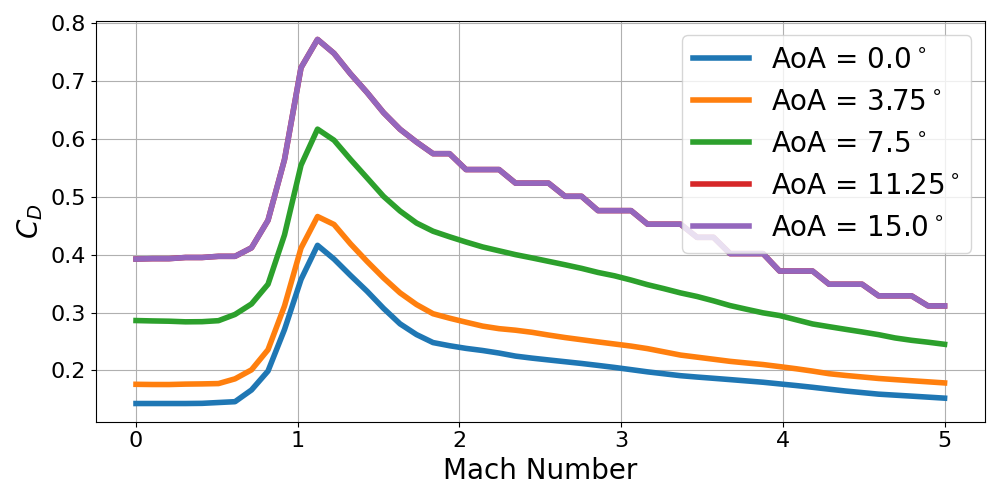
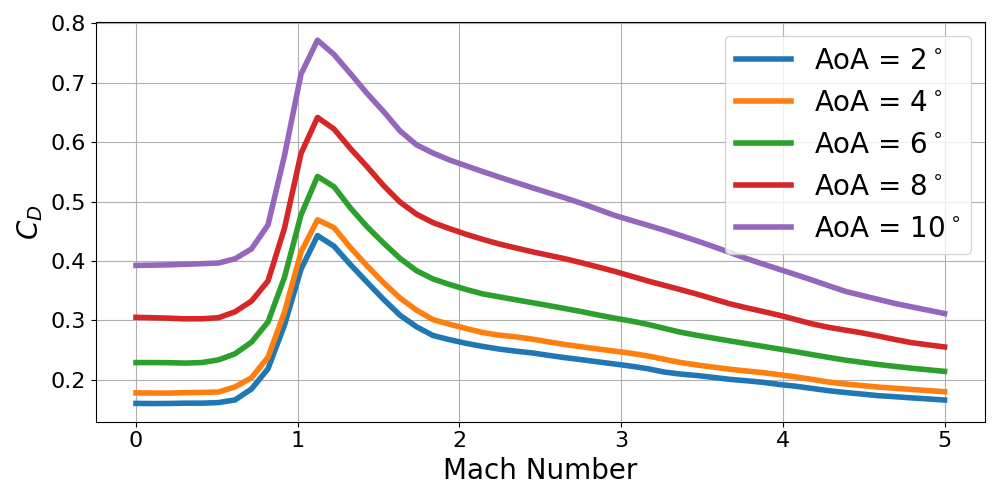
lift interpolator

diff --git a/src/envs/utils/aerodynamic_coefficients.py b/src/envs/utils/aerodynamic_coefficients.py
@@ -1,23 +1,10 @@
 import math
 import numpy as np
 import matplotlib.pyplot as plt
-import scipy.interpolate as interp
-import matplotlib.gridspec as gridspec
-from scipy.interpolate import RegularGridInterpolator
-
-def rocket_CL(alpha,                    # [rad]
-              M,                        # [-]
-              C_L_alpha = 11.459): # radians & -
-    return C_L_alpha * abs(alpha)
-
-import numpy as np
-import pandas as pd
-import matplotlib.pyplot as plt
 from scipy.interpolate import LinearNDInterpolator
 from scipy.interpolate import NearestNDInterpolator
 
-
-def load_drag_data(filename='V2_drag_coefficient.csv'):
+def load_coefficient_data(filename, coef_type="drag"):
     with open(filename, 'r') as f:
         lines = f.readlines()
     header = lines[0].strip().split(',')
@@ -25,7 +12,7 @@ def load_drag_data(filename='V2_drag_coefficient.csv'):
     for val in header:
         if 'deg' in val:
             aoa_values.append(float(val.split('_')[0]))
-    data = {angle: {'mach': [], 'cd': []} for angle in aoa_values}
+    data = {angle: {'mach': [], 'coef': []} for angle in aoa_values}
     for line in lines[2:]:
         if not line.strip():
             continue
@@ -35,38 +22,45 @@ def load_drag_data(filename='V2_drag_coefficient.csv'):
         col_idx = 0
         for i, angle in enumerate(aoa_values):
             mach_idx = col_idx
-            cd_idx = col_idx + 1
-            if cd_idx < len(values) and values[mach_idx].strip() and values[cd_idx].strip():
+            coef_idx = col_idx + 1
+            if coef_idx < len(values) and values[mach_idx].strip() and values[coef_idx].strip():
                 try:
                     mach_val = float(values[mach_idx])
-                    cd_val = float(values[cd_idx])
+                    coef_val = float(values[coef_idx])
                     data[angle]['mach'].append(mach_val)
-                    data[angle]['cd'].append(cd_val)
+                    data[angle]['coef'].append(coef_val)
                 except ValueError:
                     pass
             col_idx += 2
     
     all_mach = []
-    all_cd = []
+    all_coef = []
     all_aoa = []
+    
     for angle in aoa_values:
         mach_vals = data[angle]['mach']
-        cd_vals = data[angle]['cd']
+        coef_vals = data[angle]['coef']
         
         all_mach.extend(mach_vals)
-        all_cd.extend(cd_vals)
+        all_coef.extend(coef_vals)
         all_aoa.extend([angle] * len(mach_vals))
     
-    return np.array(all_mach), np.array(all_aoa), np.array(all_cd), np.array(aoa_values)
+    return np.array(all_mach), np.array(all_aoa), np.array(all_coef), np.array(aoa_values)
 
-def create_cd_interpolator(mach, aoa, cd):
+def load_drag_data(filename='V2_drag_coefficient.csv'):
+    return load_coefficient_data(filename, coef_type="drag")
+
+def load_lift_data(filename='V2_lift_coefficient.csv'):
+    return load_coefficient_data(filename, coef_type="lift")
+
+def create_coefficient_interpolator(mach, aoa, coef):
     points = np.column_stack((mach, aoa))
-    interp = LinearNDInterpolator(points, cd)
+    interp = LinearNDInterpolator(points, coef)
     
     # Create fallback interpolator for extrapolation using nearest neighbor
-    fallback = NearestNDInterpolator(points, cd)
+    fallback = NearestNDInterpolator(points, coef)
     
-    def interpolate_cd(mach_val, aoa_val):
+    def interpolate_coef(mach_val, aoa_val):
         pts = np.array([[mach_val, aoa_val]])
         result = interp(pts)
         
@@ -76,30 +70,63 @@ def create_cd_interpolator(mach, aoa, cd):
             
         return float(result[0])
     
-    return interpolate_cd
+    return interpolate_coef
 
+def create_cd_interpolator(mach, aoa, cd):
+    return create_coefficient_interpolator(mach, aoa, cd)
 
-def plot_cd_vs_mach_aoa(cd_interp_func, mach_range, aoa_values):
+def create_cl_interpolator(mach, aoa, cl):
+    return create_coefficient_interpolator(mach, aoa, cl)
+
+def plot_coefficient_vs_mach_aoa(coef_interp_func, mach_range, aoa_values, coef_type="CD"):
+    coef_labels = {
+        "CD": r"$C_D$",
+        "CL": r"$C_L$"
+    }
+    
     mach_grid = np.linspace(min(mach_range), max(mach_range), 50)
     plt.figure(figsize=(10, 5))
     for aoa in aoa_values:
-        cd_values = np.array([cd_interp_func(m, aoa) for m in mach_grid])
-        plt.plot(mach_grid, cd_values, label=rf'AoA = {aoa}$^\circ$', linewidth = 4)
-    plt.xlabel('Mach Number', fontsize = 20)
-    plt.ylabel(r'$C_D$', fontsize = 20)
+        coef_values = np.array([coef_interp_func(m, aoa) for m in mach_grid])
+        plt.plot(mach_grid, coef_values, label=rf'AoA = {math.degrees(aoa):.0f}$^\circ$', linewidth=4)
+    plt.xlabel('Mach Number', fontsize=20)
+    plt.ylabel(coef_labels.get(coef_type, coef_type), fontsize=20)
     plt.grid(True)
     plt.tick_params(axis='both', which='major', labelsize=16)
-    plt.legend(fontsize = 20)
+    plt.legend(fontsize=20)
     plt.tight_layout()
-    plt.savefig('results/Sizing/drag_coefficient.png')
+    
+    # Save with appropriate filename
+    if coef_type == "CD":
+        plt.savefig('results/Sizing/drag_coefficient.png')
+    elif coef_type == "CL":
+        plt.savefig('results/Sizing/lift_coefficient.png')
+    else:
+        plt.savefig(f'results/Sizing/{coef_type.lower()}_coefficient.png')
+
+def plot_cd_vs_mach_aoa(cd_interp_func, mach_range, aoa_values):
+    return plot_coefficient_vs_mach_aoa(cd_interp_func, mach_range, aoa_values, coef_type="CD")
+
+def plot_cl_vs_mach_aoa(cl_interp_func, mach_range, aoa_values):
+    return plot_coefficient_vs_mach_aoa(cl_interp_func, mach_range, aoa_values, coef_type="CL")
 
 def rocket_CD_compiler():
     mach, aoa, cd, aoa_values = load_drag_data()
     cd_interp = create_cd_interpolator(mach, aoa, cd)
     def fun(mach, aoa):
-        return cd_interp(mach, abs(aoa))
+        return cd_interp(mach, abs(math.degrees(aoa)))
+    return fun
+
+def rocket_CL_compiler():
+    mach, aoa, cl, aoa_values = load_lift_data()
+    cl_interp = create_cl_interpolator(mach, aoa, cl)
+    def fun(mach, aoa_radians): 
+        return cl_interp(mach, abs(math.degrees(aoa_radians)))
     return fun
 
 if __name__ == "__main__":
+    # Process drag coefficient
     cd_interpolator = rocket_CD_compiler()
-    plot_cd_vs_mach_aoa(cd_interpolator, np.linspace(0, 5, 100), np.linspace(0, 10, 5))
+    plot_cd_vs_mach_aoa(cd_interpolator, np.linspace(0, 5, 100), np.deg2rad(np.array([2,4,6,8,10])))
+    cl_interpolator = rocket_CL_compiler()
+    plot_cl_vs_mach_aoa(cl_interpolator, np.linspace(0, 5, 100), np.deg2rad(np.array([2,4,6,8,10])))

diff --git a/aero_temp.py b/aero_temp.py
@@ -1,11 +1,10 @@
+import math
 import numpy as np
-import pandas as pd
 import matplotlib.pyplot as plt
 from scipy.interpolate import LinearNDInterpolator
 from scipy.interpolate import NearestNDInterpolator
 
-
-def load_drag_data(filename='V2_drag_coefficient.csv'):
+def load_coefficient_data(filename, coef_type="drag"):
     with open(filename, 'r') as f:
         lines = f.readlines()
     header = lines[0].strip().split(',')
@@ -13,7 +12,7 @@ def load_drag_data(filename='V2_drag_coefficient.csv'):
     for val in header:
         if 'deg' in val:
             aoa_values.append(float(val.split('_')[0]))
-    data = {angle: {'mach': [], 'cd': []} for angle in aoa_values}
+    data = {angle: {'mach': [], 'coef': []} for angle in aoa_values}
     for line in lines[2:]:
         if not line.strip():
             continue
@@ -23,38 +22,45 @@ def load_drag_data(filename='V2_drag_coefficient.csv'):
         col_idx = 0
         for i, angle in enumerate(aoa_values):
             mach_idx = col_idx
-            cd_idx = col_idx + 1
-            if cd_idx < len(values) and values[mach_idx].strip() and values[cd_idx].strip():
+            coef_idx = col_idx + 1
+            if coef_idx < len(values) and values[mach_idx].strip() and values[coef_idx].strip():
                 try:
                     mach_val = float(values[mach_idx])
-                    cd_val = float(values[cd_idx])
+                    coef_val = float(values[coef_idx])
                     data[angle]['mach'].append(mach_val)
-                    data[angle]['cd'].append(cd_val)
+                    data[angle]['coef'].append(coef_val)
                 except ValueError:
                     pass
             col_idx += 2
     
     all_mach = []
-    all_cd = []
+    all_coef = []
     all_aoa = []
+    
     for angle in aoa_values:
         mach_vals = data[angle]['mach']
-        cd_vals = data[angle]['cd']
+        coef_vals = data[angle]['coef']
         
         all_mach.extend(mach_vals)
-        all_cd.extend(cd_vals)
+        all_coef.extend(coef_vals)
         all_aoa.extend([angle] * len(mach_vals))
     
-    return np.array(all_mach), np.array(all_aoa), np.array(all_cd), np.array(aoa_values)
+    return np.array(all_mach), np.array(all_aoa), np.array(all_coef), np.array(aoa_values)
 
-def create_cd_interpolator(mach, aoa, cd):
+def load_drag_data(filename='V2_drag_coefficient.csv'):
+    return load_coefficient_data(filename, coef_type="drag")
+
+def load_lift_data(filename='V2_lift_coefficient.csv'):
+    return load_coefficient_data(filename, coef_type="lift")
+
+def create_coefficient_interpolator(mach, aoa, coef):
     points = np.column_stack((mach, aoa))
-    interp = LinearNDInterpolator(points, cd)
+    interp = LinearNDInterpolator(points, coef)
     
     # Create fallback interpolator for extrapolation using nearest neighbor
-    fallback = NearestNDInterpolator(points, cd)
+    fallback = NearestNDInterpolator(points, coef)
     
-    def interpolate_cd(mach_val, aoa_val):
+    def interpolate_coef(mach_val, aoa_val):
         pts = np.array([[mach_val, aoa_val]])
         result = interp(pts)
         
@@ -64,30 +70,64 @@ def create_cd_interpolator(mach, aoa, cd):
             
         return float(result[0])
     
-    return interpolate_cd
+    return interpolate_coef
 
+def create_cd_interpolator(mach, aoa, cd):
+    return create_coefficient_interpolator(mach, aoa, cd)
 
-def plot_cd_vs_mach_aoa(cd_interp_func, mach_range, aoa_values):
+def create_cl_interpolator(mach, aoa, cl):
+    return create_coefficient_interpolator(mach, aoa, cl)
+
+def plot_coefficient_vs_mach_aoa(coef_interp_func, mach_range, aoa_values, coef_type="CD"):
+    coef_labels = {
+        "CD": r"$C_D$",
+        "CL": r"$C_L$"
+    }
+    
     mach_grid = np.linspace(min(mach_range), max(mach_range), 50)
     plt.figure(figsize=(10, 5))
     for aoa in aoa_values:
-        cd_values = np.array([cd_interp_func(m, aoa) for m in mach_grid])
-        plt.plot(mach_grid, cd_values, label=rf'AoA = {aoa}$^\circ$', linewidth = 4)
-    plt.xlabel('Mach Number', fontsize = 20)
-    plt.ylabel(r'$C_D$', fontsize = 20)
+        coef_values = np.array([coef_interp_func(m, aoa) for m in mach_grid])
+        plt.plot(mach_grid, coef_values, label=rf'AoA = {math.degrees(aoa):.0f}$^\circ$', linewidth=4)
+    plt.xlabel('Mach Number', fontsize=20)
+    plt.ylabel(coef_labels.get(coef_type, coef_type), fontsize=20)
     plt.grid(True)
     plt.tick_params(axis='both', which='major', labelsize=16)
-    plt.legend(fontsize = 20)
+    plt.legend(fontsize=20)
     plt.tight_layout()
-    plt.savefig('results/Sizing/drag_coefficient.png')
+    
+    # Save with appropriate filename
+    if coef_type == "CD":
+        plt.savefig('results/Sizing/drag_coefficient.png')
+    elif coef_type == "CL":
+        plt.savefig('results/Sizing/lift_coefficient.png')
+    else:
+        plt.savefig(f'results/Sizing/{coef_type.lower()}_coefficient.png')
+
+def plot_cd_vs_mach_aoa(cd_interp_func, mach_range, aoa_values):
+    return plot_coefficient_vs_mach_aoa(cd_interp_func, mach_range, aoa_values, coef_type="CD")
+
+def plot_cl_vs_mach_aoa(cl_interp_func, mach_range, aoa_values):
+    return plot_coefficient_vs_mach_aoa(cl_interp_func, mach_range, aoa_values, coef_type="CL")
 
 def rocket_CD_compiler():
     mach, aoa, cd, aoa_values = load_drag_data()
     cd_interp = create_cd_interpolator(mach, aoa, cd)
     def fun(mach, aoa):
-        return cd_interp(mach, abs(aoa))
+        return cd_interp(mach, abs(math.degrees(aoa)))
+    return fun
+
+def rocket_CL_compiler():
+    """Compile lift coefficient interpolator"""
+    mach, aoa, cl, aoa_values = load_lift_data()
+    cl_interp = create_cl_interpolator(mach, aoa, cl)
+    def fun(mach, aoa_radians): 
+        return cl_interp(mach, abs(math.degrees(aoa_radians)))
     return fun
 
 if __name__ == "__main__":
+    # Process drag coefficient
     cd_interpolator = rocket_CD_compiler()
-    plot_cd_vs_mach_aoa(cd_interpolator, np.linspace(0, 5, 100), np.linspace(0, 10, 5))
+    plot_cd_vs_mach_aoa(cd_interpolator, np.linspace(0, 5, 100), np.deg2rad(np.array([2,4,6,8,10])))
+    cl_interpolator = rocket_CL_compiler()
+    plot_cl_vs_mach_aoa(cl_interpolator, np.linspace(0, 5, 100), np.deg2rad(np.array([2,4,6,8,10])))

diff --git a/src/envs/rockets_physics.py b/src/envs/rockets_physics.py
@@ -4,11 +4,11 @@ import math
 import numpy as np
 
 from src.envs.utils.atmosphere_dynamics import endo_atmospheric_model, gravity_model_endo
-from src.envs.utils.aerodynamic_coefficients import rocket_CL, rocket_CD_compiler
+from src.envs.utils.aerodynamic_coefficients import rocket_CL_compiler, rocket_CD_compiler
 from src.envs.disturbance_generator import VKDisturbanceGenerator
 
 rocket_CD = rocket_CD_compiler()
-
+rocket_CL = rocket_CL_compiler()
 def force_moment_decomposer_ascent(actions,
                                    atmospheric_pressure : float,
                                    d_thrust_cg : float,
